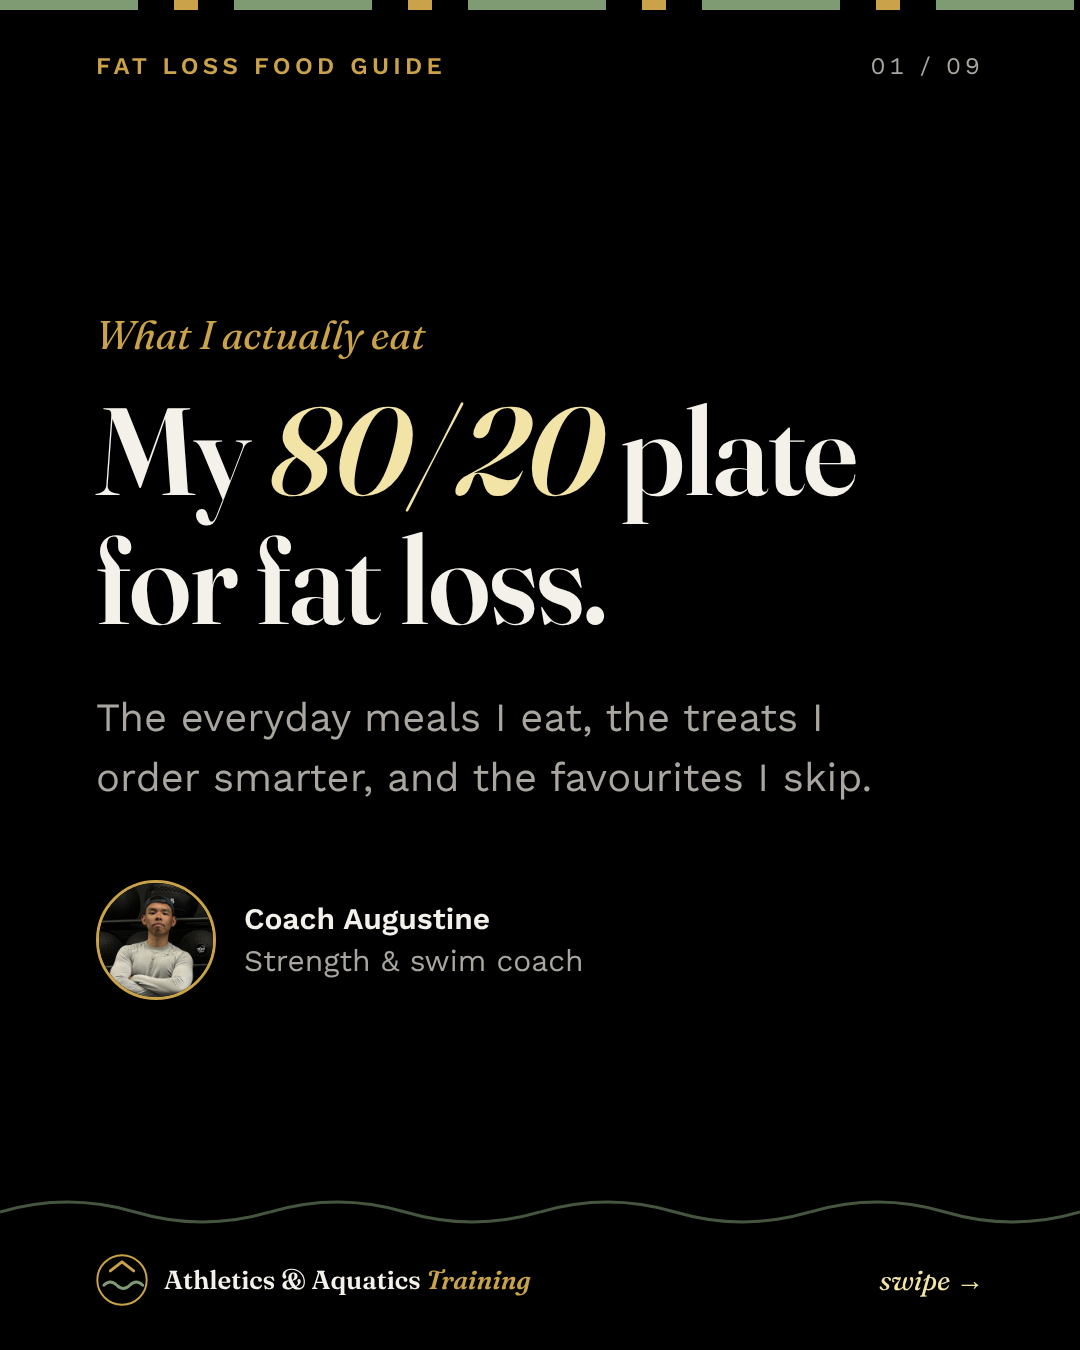
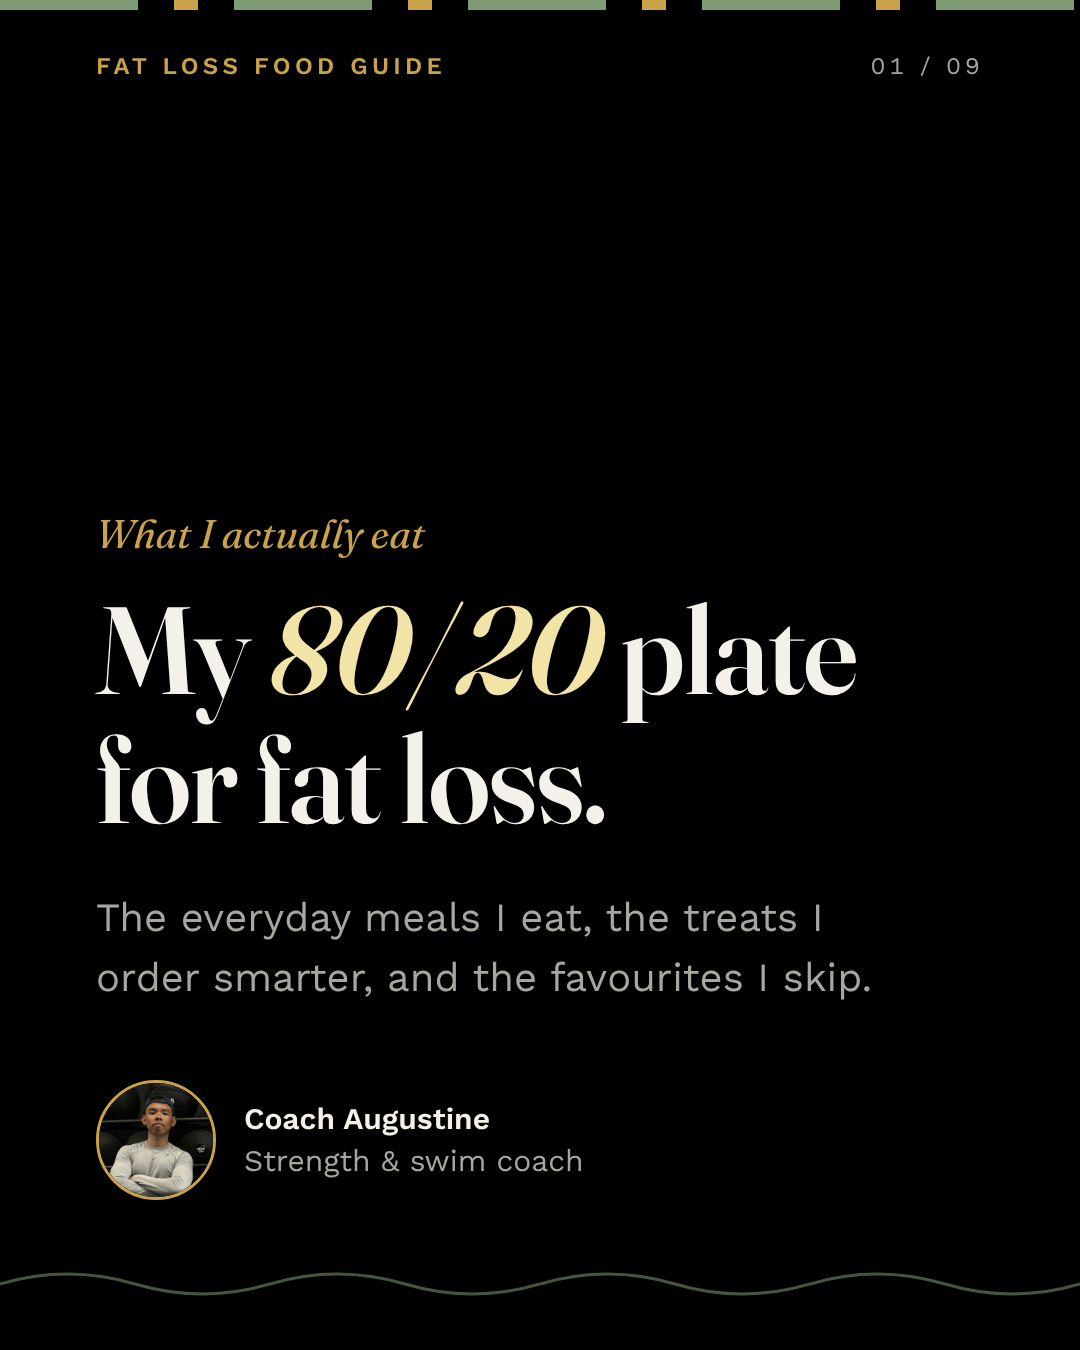
Food guide carousel: remove footer, add per-slide photo backgrounds
Claude-Session: https://claude.ai/code/session_01QNxkYZ2h6udsyHuSyBd6uT

diff --git a/instagram/food-guide-fat-loss.html b/instagram/food-guide-fat-loss.html
@@ -211,6 +211,18 @@
   .tier.a .pct{ color:var(--sage); }
   .tier.b .pct{ color:var(--gold); }
   .tier.c .pct{ color:#d97a6c; }
+
+  /* ===== no footer + food photo backgrounds ===== */
+  .slide{
+    padding-bottom:150px;
+    background:var(--shade), var(--photo, none) center/cover no-repeat, #000;
+    --shade:linear-gradient(rgba(0,0,0,.80), rgba(0,0,0,.88));
+  }
+  .slide > *{ position:relative; }
+  .slide > .top{ position:absolute; }
+  .slide::after{ bottom:46px; }
+  /* cover + CTA: photo shows through at the top, text sits on the dark lower half */
+  .cover, .cta{ --shade:linear-gradient(180deg, rgba(0,0,0,.15) 0%, rgba(0,0,0,.55) 32%, rgba(0,0,0,.93) 55%, #000 100%); justify-content:flex-end; }
 </style>
 </head>
 <body>
@@ -224,7 +236,7 @@
 <div class="deck" id="deck">
 
   <!-- ======================= 1 · COVER ======================= -->
-  <section class="slide cover">
+  <section class="slide cover" style="--photo:url(assets/food/cover.jpg)">
     <div class="top"><span class="tag" contenteditable>Fat loss food guide</span><span class="count"></span></div>
     <div class="eyebrow" contenteditable>What I actually eat</div>
     <h1 contenteditable>My <em>80/20</em> plate for fat loss.</h1>
@@ -233,11 +245,10 @@
       <img src="assets/augustine.jpg" alt="">
       <span contenteditable><b>Coach Augustine</b><br>Strength &amp; swim coach</span>
     </div>
-    <div class="foot"></div>
   </section>
 
   <!-- ======================= 2 · TIERS ======================= -->
-  <section class="slide tiers">
+  <section class="slide tiers" style="--photo:url(assets/food/plate.jpg)">
     <div class="top"><span class="tag" contenteditable>Fat loss food guide</span><span class="count"></span></div>
     <h2 contenteditable>The rule is <em>simple.</em></h2>
     <div class="tier a">
@@ -255,11 +266,10 @@
       <div class="name" contenteditable>Love it, but skip</div>
       <div class="desc" contenteditable>Low protein · high fat</div>
     </div>
-    <div class="foot"></div>
   </section>
 
   <!-- ======================= 3 · 80% ======================= -->
-  <section class="slide list foods">
+  <section class="slide list foods" style="--photo:url(assets/food/oats.jpg)">
     <div class="top"><span class="tag" contenteditable>80% · Everyday</span><span class="count"></span></div>
     <h2 contenteditable>What I eat <em>most days.</em></h2>
     <div class="pill" contenteditable>High protein · low fat · decent carbs</div>
@@ -271,11 +281,10 @@
       <li><span><b>Protein shake</b></span></li>
       <li><span><b>Fish slice &amp; spinach soup</b> + white rice or noodles</span></li>
     </ul>
-    <div class="foot"></div>
   </section>
 
   <!-- ======================= 4 · 20% ======================= -->
-  <section class="slide list foods sometimes">
+  <section class="slide list foods sometimes" style="--photo:url(assets/food/mala.jpg)">
     <div class="top"><span class="tag" contenteditable>20% · Sometimes</span><span class="count"></span></div>
     <h2 contenteditable>Still on the menu. <em>Order smart.</em></h2>
     <ul contenteditable>
@@ -284,11 +293,10 @@
       <li><span><b>Cai fan</b><span class="note">Pick lean protein and veg. Skip the curry gravy.</span></span></li>
       <li><span><b>Soup-based dishes</b><span class="note">Eat everything in the bowl, but leave most of the soup.</span></span></li>
     </ul>
-    <div class="foot"></div>
   </section>
 
   <!-- ======================= 5 · SKIP ======================= -->
-  <section class="slide list foods skip tight">
+  <section class="slide list foods skip tight" style="--photo:url(assets/food/noodles.jpg)">
     <div class="top"><span class="tag" contenteditable>0% · Skip</span><span class="count"></span></div>
     <h2 class="skip-head" contenteditable>Love these. <em>Still skip them.</em></h2>
     <div class="pill" contenteditable>Low protein · high fat</div>
@@ -300,20 +308,18 @@
       <li><span><b>Chicken chop / cutlet</b><span class="note">More batter and oil than actual meat.</span></span></li>
       <li><span><b>Korean hot plate chicken</b><span class="note">Decent protein, but the sauce and oil add up.</span></span></li>
     </ul>
-    <div class="foot"></div>
   </section>
 
   <!-- ======================= 6 · TIP 01 (SOUP) ======================= -->
-  <section class="slide point">
+  <section class="slide point" style="--photo:url(assets/food/soup.jpg)">
     <div class="top"><span class="tag" contenteditable>Cut the fat · Tip 1</span><span class="count"></span></div>
     <div class="num">01</div>
     <h2 contenteditable>Don't finish <em>the soup.</em></h2>
     <p contenteditable>The way most soups and broths are made, a lot of the oil ends up in the liquid. Eat the noodles, meat and veg. Leave most of the soup in the bowl.</p>
-    <div class="foot"></div>
   </section>
 
   <!-- ======================= 7 · MORE TIPS ======================= -->
-  <section class="slide list foods">
+  <section class="slide list foods" style="--photo:url(assets/food/berries.jpg)">
     <div class="top"><span class="tag" contenteditable>Cut the fat · Tips 2–6</span><span class="count"></span></div>
     <h2 contenteditable>5 more easy <em>fat cuts.</em></h2>
     <ul contenteditable>
@@ -323,21 +329,19 @@
       <li><span><b>Frozen berries or yoghurt</b> to curb late-night hunger</span></li>
       <li><span><b>Potatoes, pumpkin, carrots</b> for good carbs</span></li>
     </ul>
-    <div class="foot"></div>
   </section>
 
   <!-- ======================= 8 · QUOTE ======================= -->
-  <section class="slide quote">
+  <section class="slide quote" style="--photo:url(assets/food/chicken-rice.jpg)">
     <div class="top"><span class="tag" contenteditable>Real results</span><span class="count"></span></div>
     <div class="mark">“</div>
     <div class="stars">★★★★★</div>
     <blockquote contenteditable>Not only have I managed to shed a few kilos… he's taught me so much about nutrition and protein intake.</blockquote>
     <cite contenteditable><b>Jasmine</b> · Personal Training client</cite>
-    <div class="foot"></div>
   </section>
 
   <!-- ======================= 9 · CTA ======================= -->
-  <section class="slide cta">
+  <section class="slide cta" style="--photo:url(assets/food/cta.jpg)">
     <div class="top"><span class="tag" contenteditable>Your next step</span><span class="count"></span></div>
     <img src="assets/augustine.jpg" alt="">
     <h2 contenteditable>Save this for your next <em>hawker run.</em></h2>
@@ -347,19 +351,10 @@
       <span><svg viewBox="0 0 24 24"><path d="M6 3h12v18l-6-4.5L6 21z"/></svg><span contenteditable>Save for later</span></span>
       <span><svg viewBox="0 0 24 24"><path d="M21 3L10 14M21 3l-7 18-4-7-7-4z"/></svg><span contenteditable>Send to a makan kaki</span></span>
     </div>
-    <div class="foot"></div>
   </section>
 
 </div>
 
-<!-- shared footer, injected into every slide -->
-<template id="foot">
-  <div class="brand">
-    <svg viewBox="0 0 40 40"><circle cx="20" cy="20" r="19" fill="none" stroke="#C9A24A" stroke-width="1.5"/><path d="M6 24 Q11 19 16 24 T26 24 T36 24" stroke="#7E9B74" stroke-width="2.2" fill="none" stroke-linecap="round"/><path d="M11 13 L20 6 L29 13" stroke="#C9A24A" stroke-width="2.2" fill="none" stroke-linecap="round" stroke-linejoin="round"/></svg>
-    <b>Athletics &amp; Aquatics <em>Training</em></b>
-  </div>
-  <span class="swipe">swipe →</span>
-</template>
 
 <script src="https://cdn.jsdelivr.net/npm/html-to-image@1.11.11/dist/html-to-image.js"></script>
 <script>
@@ -370,9 +365,6 @@
     const f = document.createElement('div'); f.className = 'frame';
     s.before(f); f.appendChild(s);
     s.querySelector('.count').textContent = `${pad(i + 1)} / ${pad(slides.length)}`;
-    const foot = s.querySelector('.foot');
-    foot.appendChild(document.getElementById('foot').content.cloneNode(true));
-    if (i === slides.length - 1) foot.querySelector('.swipe').textContent = '@auggie_goh';
   });
 
   const zoom = document.getElementById('zoom');
